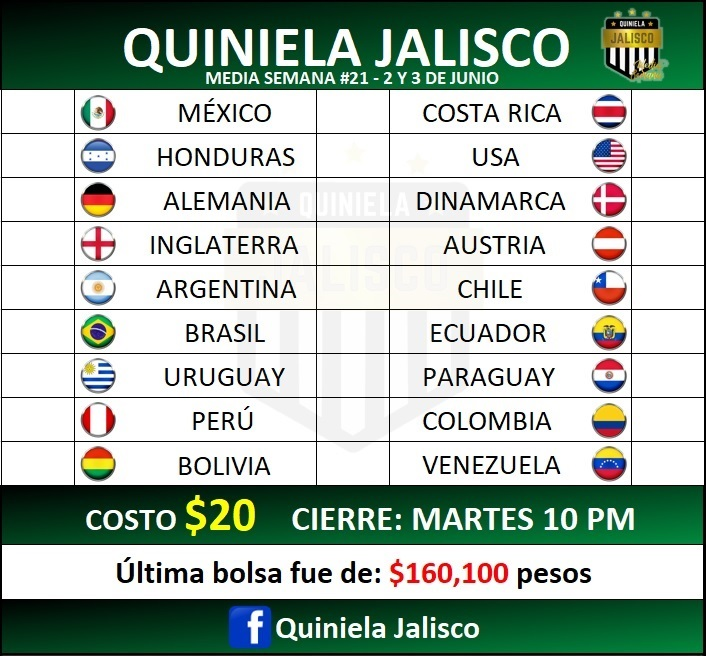
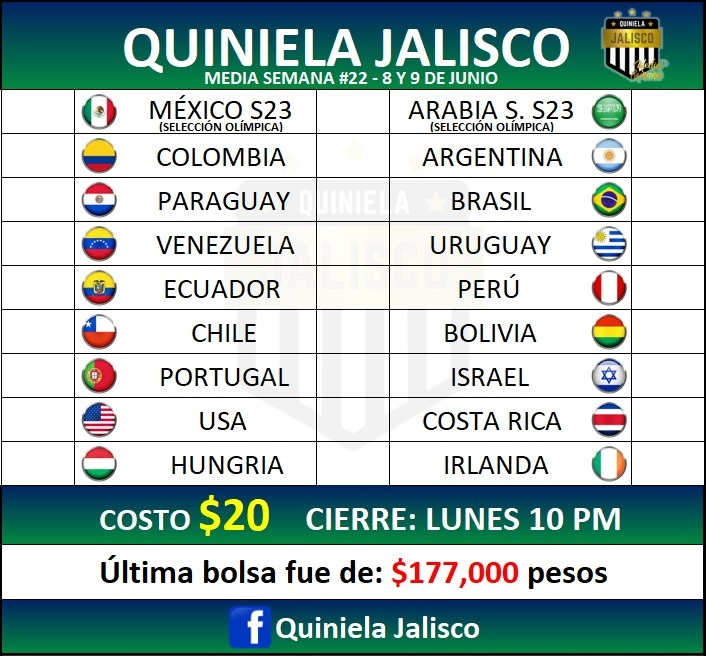
Media Semana #22

diff --git a/MediaSemana/stylesm.css b/MediaSemana/stylesm.css
@@ -89,8 +89,8 @@ h1{
     margin-top: 8%;
     border: solid 1px black;
     border-radius: 0 0 14px 14px;
-    background: -webkit-linear-gradient(0.04turn, rgb(0,0,0)  ,rgb(9,125,64) 80%);
-    background: linear-gradient(0.04turn, rgb(0,0,0)  ,rgb(9,125,64) 80%);
+    background: -webkit-linear-gradient(0.5turn, rgb(7,131,68)  ,rgb(0,36,98) 80%);
+    background: linear-gradient(0.5turn, rgb(7,131,68)  ,rgb(0,36,98) 80%);
     font-size: x-large;
 }
 
